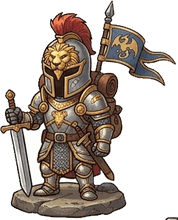
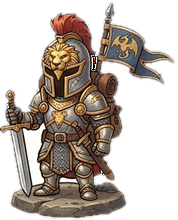
Gereedschap om witte achtergronden weg te halen, plus drie art-bestanden gefixt
Koen kan de figuren alleen met een witte achtergrond laten genereren, maar het
spel heeft transparantie nodig. tools/cutout.py lost dat op.

Werking: het vult vanaf de RANDEN naar binnen (flood fill), zodat alleen het wit
aan de buitenkant verdwijnt. Wit BINNEN de figuur blijft staan - botten, tanden,
een wit gewaad, highlights op een helm. Domweg alle witte pixels wissen zou het
skelet slopen. Daarna wordt de rand een paar pixels zacht gemaakt tegen kartels
en witte zoom, en wordt het beeld bijgesneden.

Bij het testen bleek een eerste versie een van Hels zwevende dwaallichtjes op te
eten: die zweeft los van het figuur en werd als ruis gezien. Het despeckle-filter
kijkt nu ook naar KLEUR en poetst alleen kleurloze of bijna-witte restjes weg.
Felgekleurde losse onderdelen blijven staan.

Gemeten op de bestaande figuren: het skelet houdt 98,5% van z'n witte botten, de
Warden 100%, en op een donkere achtergrond blijft er geen witte zoom over.

Meteen toegepast op de drie bestanden die nog een dichte hoek hadden - warden,
commander en necromancer. Alle 18 zijn nu volledig transparant.

De prompt-handleiding heeft er een sectie bij die uitlegt hoe je het draait.

Tests: 110 headless, 35 rooktest. SW-cache v44.

Claude-Session: https://claude.ai/code/session_015tUXfAMQN9WvwGbabVmEe6

diff --git a/sw.js b/sw.js
@@ -1,4 +1,4 @@
-const CACHE = 'rondel-v43';
+const CACHE = 'rondel-v44';
 const ASSETS = [
   './index.html', './manifest.webmanifest', './icon-192.png', './icon-512.png',
   './art/apprentice.png', './art/archer.png', './art/boar.png', './art/cleric.png', './art/commander.png', './art/ghoul.png', './art/hellhound.png', './art/imp.png', './art/lupine.png', './art/necromancer.png', './art/pitlord.png', './art/runesmith.png', './art/scout.png', './art/skeleton.png', './art/squire.png', './art/warden.png', './art/weaver.png', './art/wyrmling.png'

diff --git a/tools/cutout.py b/tools/cutout.py
@@ -1,0 +1,179 @@
+#!/usr/bin/env python3
+"""
+Witte achtergrond van gegenereerde figuurtjes weghalen.
+
+Beeldgeneratoren leveren vaak een PNG met een dichte witte achtergrond terwijl
+het spel transparantie nodig heeft. Domweg "alle witte pixels wissen" werkt
+NIET: dan verdwijnt ook het wit BINNEN de figuur — botten, tanden, Eirs gewaad,
+de highlights op een helm.
+
+Daarom vult dit script vanaf de RANDEN naar binnen (flood fill). Alleen wit dat
+via de rand bereikbaar is verdwijnt; ingesloten wit blijft staan. Daarna wordt
+de rand een paar pixels zacht gemaakt zodat er geen kartels of witte zoom
+overblijft.
+
+Gebruik:
+    python3 tools/cutout.py art-nieuw/*.png            # schrijft naast het origineel
+    python3 tools/cutout.py -o art/ art-nieuw/*.png     # naar een andere map
+    python3 tools/cutout.py --drempel 26 plaatje.png    # strenger/losser
+"""
+import argparse
+import os
+import sys
+from collections import deque
+
+try:
+    from PIL import Image, ImageFilter
+except ImportError:
+    sys.exit("Pillow ontbreekt. Installeer met: pip install pillow")
+
+
+def maak_transparant(im, drempel=32, zoom=2, marge=8):
+    """Geeft een RGBA-kopie terug waarin de buitenste (bijna-)witte rand weg is.
+
+    drempel : hoeveel een pixel van puur wit mag afwijken en toch als
+              achtergrond telt (0-255). Hoger = meer weghalen.
+    zoom    : hoeveel pixels de rand zacht wordt gemaakt.
+    marge   : lege ruimte die rond het figuur blijft staan bij het bijsnijden.
+    """
+    im = im.convert("RGBA")
+    b, h = im.size
+    px = im.load()
+
+    def is_achtergrond(x, y):
+        r, g, bl, a = px[x, y]
+        if a == 0:
+            return True
+        # bijna-wit: alle kanalen hoog en dicht bij elkaar (dus niet een
+        # lichtgele gloed of een bleekblauw pantser)
+        return r >= 255 - drempel and g >= 255 - drempel and bl >= 255 - drempel \
+            and max(r, g, bl) - min(r, g, bl) <= 18
+
+    # Flood fill vanaf alle randpixels naar binnen
+    weg = bytearray(b * h)
+    rij = deque()
+    for x in range(b):
+        for y in (0, h - 1):
+            if is_achtergrond(x, y) and not weg[y * b + x]:
+                weg[y * b + x] = 1
+                rij.append((x, y))
+    for y in range(h):
+        for x in (0, b - 1):
+            if is_achtergrond(x, y) and not weg[y * b + x]:
+                weg[y * b + x] = 1
+                rij.append((x, y))
+
+    while rij:
+        x, y = rij.popleft()
+        for dx, dy in ((1, 0), (-1, 0), (0, 1), (0, -1)):
+            nx, ny = x + dx, y + dy
+            if 0 <= nx < b and 0 <= ny < h and not weg[ny * b + nx] and is_achtergrond(nx, ny):
+                weg[ny * b + nx] = 1
+                rij.append((nx, ny))
+
+    # Losse spikkels weghalen: kleine eilandjes die van het figuur los staan.
+    # Generatoren laten vaak wat ruis of een half weggepoetst restje achter.
+    bezet = [not weg[i] for i in range(b * h)]
+    gezien = bytearray(b * h)
+    eilanden = []
+    for start in range(b * h):
+        if not bezet[start] or gezien[start]:
+            continue
+        groep = []
+        stapel = [start]
+        gezien[start] = 1
+        while stapel:
+            i = stapel.pop()
+            groep.append(i)
+            x0, y0 = i % b, i // b
+            for dx, dy in ((1, 0), (-1, 0), (0, 1), (0, -1)):
+                nx, ny = x0 + dx, y0 + dy
+                if 0 <= nx < b and 0 <= ny < h:
+                    j = ny * b + nx
+                    if bezet[j] and not gezien[j]:
+                        gezien[j] = 1
+                        stapel.append(j)
+        eilanden.append(groep)
+    if eilanden:
+        grootste = max(len(g) for g in eilanden)
+        for g in eilanden:
+            if len(g) >= max(24, grootste * 0.02):
+                continue                      # groot genoeg: laat staan
+            # Klein eilandje. Maar veel figuren hebben LOSSE onderdelen die er
+            # wel degelijk bij horen: een zwevend dwaallichtje, een vonk, een
+            # magisch kristal. Die zijn fel gekleurd. Poets alleen weg wat ook
+            # nog eens grauw of bijna-wit is — dus echte ruis.
+            rs = gs = bs = 0
+            for i in g:
+                r, gg, bb, _ = px[i % b, i // b]
+                rs += r; gs += gg; bs += bb
+            n = len(g)
+            r, gg, bb = rs / n, gs / n, bs / n
+            verzadiging = max(r, gg, bb) - min(r, gg, bb)
+            grauw = verzadiging <= 26                      # kleurloos
+            bijna_wit = min(r, gg, bb) >= 255 - drempel    # restje achtergrond
+            if grauw or bijna_wit:
+                for i in g:
+                    weg[i] = 1
+
+    # Alfamasker bouwen: weggevallen achtergrond wordt doorzichtig
+    masker = Image.new("L", (b, h), 255)
+    mpx = masker.load()
+    for y in range(h):
+        rowbase = y * b
+        for x in range(b):
+            if weg[rowbase + x]:
+                mpx[x, y] = 0
+
+    # Rand zacht maken zodat er geen kartels of witte zoom overblijft.
+    # Eerst iets krimpen (MinFilter) zodat de witte zoom eraf gaat, dan blurren.
+    if zoom > 0:
+        masker = masker.filter(ImageFilter.MinFilter(3))
+        masker = masker.filter(ImageFilter.GaussianBlur(zoom / 2))
+
+    uit = im.copy()
+    uit.putalpha(masker)
+
+    # Bijsnijden op wat er nog over is, met een kleine marge
+    bbox = uit.getbbox()
+    if bbox:
+        x0, y0, x1, y1 = bbox
+        x0 = max(0, x0 - marge); y0 = max(0, y0 - marge)
+        x1 = min(b, x1 + marge); y1 = min(h, y1 + marge)
+        uit = uit.crop((x0, y0, x1, y1))
+    return uit
+
+
+def main():
+    ap = argparse.ArgumentParser(description="Haalt de witte achtergrond van figuur-PNG's af.")
+    ap.add_argument("bestanden", nargs="+", help="PNG-bestanden")
+    ap.add_argument("-o", "--uit", default=None, help="map om naartoe te schrijven (standaard: naast het origineel, met -cut)")
+    ap.add_argument("--drempel", type=int, default=32, help="hoe ver van puur wit nog als achtergrond telt (0-255, standaard 32)")
+    ap.add_argument("--zoom", type=int, default=2, help="zachtheid van de rand in pixels (standaard 2)")
+    ap.add_argument("--hoogte", type=int, default=0, help="optioneel: schaal naar deze hoogte in pixels")
+    args = ap.parse_args()
+
+    if args.uit:
+        os.makedirs(args.uit, exist_ok=True)
+
+    for pad in args.bestanden:
+        try:
+            im = Image.open(pad)
+        except Exception as e:
+            print(f"  ! {pad}: kan niet openen ({e})")
+            continue
+        uit = maak_transparant(im, args.drempel, args.zoom)
+        if args.hoogte and uit.height:
+            f = args.hoogte / uit.height
+            uit = uit.resize((max(1, round(uit.width * f)), args.hoogte), Image.LANCZOS)
+        naam = os.path.basename(pad)
+        doel = os.path.join(args.uit, naam) if args.uit else \
+            os.path.join(os.path.dirname(pad) or ".", os.path.splitext(naam)[0] + "-cut.png")
+        uit.save(doel)
+        dekking = sum(1 for a in uit.getchannel("A").getdata() if a > 8) / (uit.width * uit.height)
+        print(f"  ✓ {naam}  {im.size[0]}x{im.size[1]} -> {uit.size[0]}x{uit.size[1]}  "
+              f"({dekking*100:.0f}% figuur)  -> {doel}")
+
+
+if __name__ == "__main__":
+    main()

diff --git a/docs/figurine-prompts.md b/docs/figurine-prompts.md
@@ -350,8 +350,30 @@ Vierkant beeld, transparante achtergrond, geen sokkel, geen schaduw op de grond.
 Zet de bestanden in `art/` met exact deze namen (dus `art/squire.png`, `art/wyrmling.png`, enzovoort).
 Meer hoeft er niet te gebeuren: het spel laadt ze automatisch, ook in de collectie, de winkel en de boosterkist.
 
-Twee dingen om op te letten:
-- **Echte transparantie.** Sla op als PNG met alfakanaal. `art/warden.png` heeft nu nog een dichte
-  achtergrond — dat is meteen een goede eerste om te vervangen.
-- **Geen sokkel meetekenen.** Het spel tekent zelf de ronde voet in de teamkleur eronder. Staat er ook
-  een sokkel in het plaatje, dan krijg je er twee onder elkaar.
+**Geen sokkel meetekenen.** Het spel tekent zelf de ronde voet in de teamkleur eronder. Staat er ook
+een sokkel in het plaatje, dan krijg je er twee onder elkaar.
+
+---
+
+## Witte achtergrond? Die haal je er zo af
+
+Beeldgeneratoren leveren vaak een PNG met een dichte **witte achtergrond**, terwijl het spel
+transparantie nodig heeft. Daar is een gereedschap voor:
+
+```bash
+python3 tools/cutout.py -o art/ ~/Downloads/*.png
+```
+
+Het vult vanaf de randen naar binnen, dus alleen het wit áán de buitenkant verdwijnt. Wit BINNEN de
+figuur — botten, tanden, een wit gewaad, highlights op een helm — blijft staan. Daarna wordt de rand
+een paar pixels zacht gemaakt zodat er geen kartels of witte zoom overblijft, en wordt het plaatje
+bijgesneden op wat er nog over is.
+
+Getest op de bestaande figuren: het skelet houdt 98,5% van zijn witte botten, de Warden 100%.
+Losse onderdelen die er wél bij horen — de zwevende dwaallichtjes van Hel bijvoorbeeld — blijven
+staan, omdat het gereedschap alleen kleurloze of bijna-witte restjes wegpoetst.
+
+Handige opties:
+- `--drempel 40` — losser, als er nog een grijzige zoom overblijft
+- `--drempel 20` — strenger, als er te veel van de figuur af gaat
+- `--hoogte 220` — meteen op dezelfde hoogte schalen als de huidige figuren

diff --git a/docs/00_Status_en_Beslissingen.md b/docs/00_Status_en_Beslissingen.md
@@ -243,6 +243,18 @@ SESSIE 28 — TAFEL, DECOR EN EEN AGRESSIEVE AI (Koens vier punten)
   vanaf beurt 5; in een ander potje blokkeerde hij een spawn in beurt 3 en won
   in beurt 4.
 
+ART-GEREEDSCHAP (sessie 33): tools/cutout.py haalt een witte achtergrond van
+gegenereerde figuur-PNG's af. Beeldgeneratoren leveren vaak geen transparantie.
+Het vult vanaf de RANDEN naar binnen, zodat wit BINNEN de figuur (botten,
+tanden, een wit gewaad) blijft staan — domweg alle witte pixels wissen sloopt
+het skelet. Daarna wordt de rand zacht gemaakt en het beeld bijgesneden.
+Losse onderdelen die er wél bij horen (zwevende dwaallichtjes) blijven staan:
+het despeckle-filter poetst alleen kleurloze of bijna-witte restjes weg. Die
+uitzondering is er gekomen nadat een eerste versie een van Hels dwaallichtjes
+opat. Gemeten: skelet houdt 98,5% van z'n witte botten, Warden 100%.
+Meteen toegepast op de drie bestanden die nog een dichte hoek hadden
+(warden, commander, necromancer); alle 18 zijn nu volledig transparant.
+
 SPEEL-SIMULATIE (nieuw in sessie 25): test/simulate.js speelt N volledige
 potjes headless. De testspeler doet ofwel willekeurige legale zetten ("random",
 test of de regels blijven werken) ofwel beent zo hard mogelijk naar het doel
